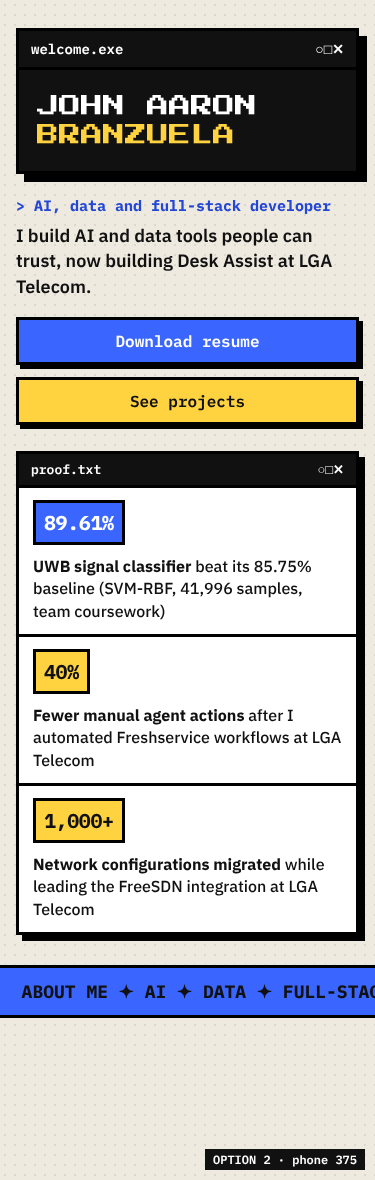
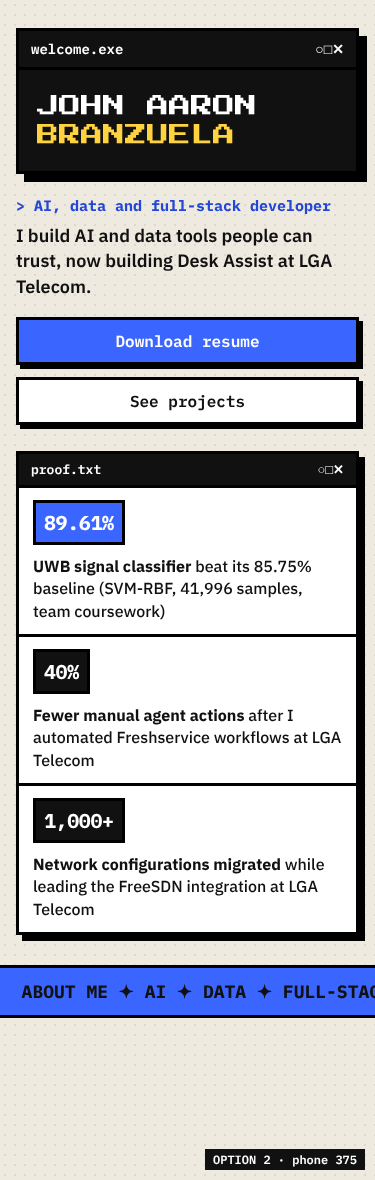
Option 2 mockup: match the live hero and yellow-for-AI rule
Claude-Session: https://claude.ai/code/session_01MNwSfzos9QpAA6oSyNdS1z

Changed region(s): [[0.0293, 0.3051, 0.968, 0.3661], [0.088, 0.6712, 0.3227, 0.7322], [0.088, 0.5492, 0.2347, 0.6102]]

diff --git a/design-system/portfolio/asset-work/proof/build.py b/design-system/portfolio/asset-work/proof/build.py
@@ -22,7 +22,7 @@ body{{background:#EFEAE0;background-image:radial-gradient(rgb(0 0 0 / .08) 1.1px
 .proof .head{{background:#111;color:#fff;font:600 13px "Plex Mono";padding:7px 12px;display:flex;justify-content:space-between}}
 .row{{display:flex;align-items:center;gap:14px;padding:12px 14px;border-top:3px solid #000}}
 .row:first-of-type{{border-top:0}}
-.fig{{flex:none;min-width:118px;text-align:center;font:700 22px "Plex Mono";letter-spacing:-.02em;background:#FFD23F;border:3px solid #000;padding:6px 8px}}
+.fig{{flex:none;min-width:118px;text-align:center;font:700 22px "Plex Mono";letter-spacing:-.02em;background:#111;color:#fff;border:3px solid #000;padding:6px 8px}}
 .fig.b{{background:#3A66FF;color:#fff}}
 .txt{{flex:1;font:500 16px/1.4 "Plex Sans"}}
 .txt b{{font-weight:700}}
@@ -45,16 +45,14 @@ desk = f'''<!doctype html><html><head><meta charset="utf-8"><style>{CSS}body{{wi
    <div class="name" style="padding:34px 36px;font-size:40px"><div style="color:#fff">JOHN AARON</div><div style="color:#FFD23F">BRANZUELA</div></div></div>
   <div class="role" style="margin-top:26px">&gt; AI, data and full-stack developer</div>
   <div class="lead" style="margin-top:10px">I build AI and data tools people can trust, now building Desk Assist at LGA Telecom.</div>
-  <div style="margin-top:22px;display:flex;gap:14px"><span class="btn" style="background:#3A66FF;color:#fff">Download resume</span><span class="btn" style="background:#FFD23F">See projects</span><span class="btn" style="background:transparent">Email me</span></div>
+  <div style="margin-top:22px;display:flex;gap:14px"><span class="btn" style="background:#3A66FF;color:#fff">Download resume</span><span class="btn" style="background:#fff">See projects</span><span class="btn" style="background:transparent">Email me</span></div>
  </div>
- <div style="display:grid;place-items:center"><div style="width:330px;height:380px;border:4px solid #000;background:#3A66FF;box-shadow:10px 10px 0 #000;position:relative;background-image:radial-gradient(rgb(255 255 255/.28) 2px,transparent 2.4px);background-size:12px 12px">
-   <div style="background:#111;color:#fff;font:600 14px 'Plex Mono';padding:7px 12px">lil_johnny.gif</div>
-   <img src="{(ROOT/'client/public/assets/mascot/poses/point-right.png').as_uri()}" style="position:absolute;left:50%;bottom:36px;height:230px;transform:translateX(-50%) scaleX(-1);image-rendering:pixelated">
-   <div style="position:absolute;left:0;right:0;bottom:0;height:40px;background:#FFD23F;border-top:3px solid #000"></div></div></div>
+ <div style="padding-top:4px"><div class="win" style="background:#fff"><div class="bar"><span>desk_assist.exe</span><span>○□✕</span></div>
+   <div style="padding:14px 16px 16px"><div style="font:700 20px 'Plex Sans';font-stretch:85%">How Desk Assist will draft a reply</div><div style="display:flex;align-items:center;gap:10px;border:3px solid #000;padding:7px 10px;margin-top:8px;background:#fff;color:#111;font:600 15px Plex Sans"><span style="font:700 12px Plex Mono;border:2px solid #000;padding:1px 5px;background:#EFEAE0;color:#000">1</span>Ticket</div><div style="display:flex;align-items:center;gap:10px;border:3px solid #000;padding:7px 10px;margin-top:8px;background:#fff;color:#111;font:600 15px Plex Sans"><span style="font:700 12px Plex Mono;border:2px solid #000;padding:1px 5px;background:#FFD23F;color:#000">AI</span>Reads the thread</div><div style="display:flex;align-items:center;gap:10px;border:3px solid #000;padding:7px 10px;margin-top:8px;background:#fff;color:#111;font:600 15px Plex Sans"><span style="font:700 12px Plex Mono;border:2px solid #000;padding:1px 5px;background:#FFD23F;color:#000">AI</span>Finds knowledge-base guidance</div><div style="display:flex;align-items:center;gap:10px;border:3px solid #000;padding:7px 10px;margin-top:8px;background:#fff;color:#111;font:600 15px Plex Sans"><span style="font:700 12px Plex Mono;border:2px solid #000;padding:1px 5px;background:#FFD23F;color:#000">AI</span>Drafts a reply</div><div style="display:flex;align-items:center;gap:10px;border:3px solid #000;padding:7px 10px;margin-top:8px;background:#111;color:#fff;font:600 15px Plex Sans"><span style="font:700 12px Plex Mono;border:2px solid #000;padding:1px 5px;background:#fff;color:#000">AGENT</span>Agent reviews</div><div style="display:flex;align-items:center;gap:10px;border:3px solid #000;padding:7px 10px;margin-top:8px;background:#fff;color:#111;font:600 15px Plex Sans"><span style="font:700 12px Plex Mono;border:2px solid #000;padding:1px 5px;background:#EFEAE0;color:#000">6</span>Sent</div></div></div></div>
  <div style="grid-column:1 / -1;margin-top:10px">{proof()}</div>
 </div>
 <div class="ribbon" style="margin-top:40px">&nbsp; ABOUT ME ✦ AI ✦ DATA ✦ FULL-STACK ✦ ABOUT ME ✦ AI ✦ DATA ✦ FULL-STACK ✦ ABOUT ME ✦ AI ✦ DATA</div>
-<div class="label">OPTION 2 MOCKUP · desktop 1366</div></body></html>'''
+<div class="label">OPTION 2 MOCKUP · desktop 1366 (hero as live after PR #7)</div></body></html>'''
 mob = f'''<!doctype html><html><head><meta charset="utf-8"><style>{CSS}body{{width:375px;height:1180px}}
 .row{{flex-wrap:wrap;gap:10px}} .fig{{min-width:0;font-size:20px}} .txt{{flex-basis:100%;font-size:16px}}</style></head><body>
 <div style="padding:28px 16px 0">
@@ -62,7 +60,7 @@ mob = f'''<!doctype html><html><head><meta charset="utf-8"><style>{CSS}body{{wid
   <div class="name" style="padding:22px 18px;font-size:22px"><div style="color:#fff">JOHN AARON</div><div style="color:#FFD23F">BRANZUELA</div></div></div>
  <div class="role" style="margin-top:22px;font-size:15px">&gt; AI, data and full-stack developer</div>
  <div class="lead" style="margin-top:8px;font-size:18px">I build AI and data tools people can trust, now building Desk Assist at LGA Telecom.</div>
- <div style="margin-top:18px;display:grid;gap:12px"><span class="btn" style="background:#3A66FF;color:#fff;text-align:center">Download resume</span><span class="btn" style="background:#FFD23F;text-align:center">See projects</span></div>
+ <div style="margin-top:18px;display:grid;gap:12px"><span class="btn" style="background:#3A66FF;color:#fff;text-align:center">Download resume</span><span class="btn" style="background:#fff;text-align:center">See projects</span></div>
  <div style="margin-top:26px">{proof(compact=True)}</div>
 </div>
 <div class="ribbon" style="margin-top:30px">&nbsp; ABOUT ME ✦ AI ✦ DATA ✦ FULL-STACK</div>
